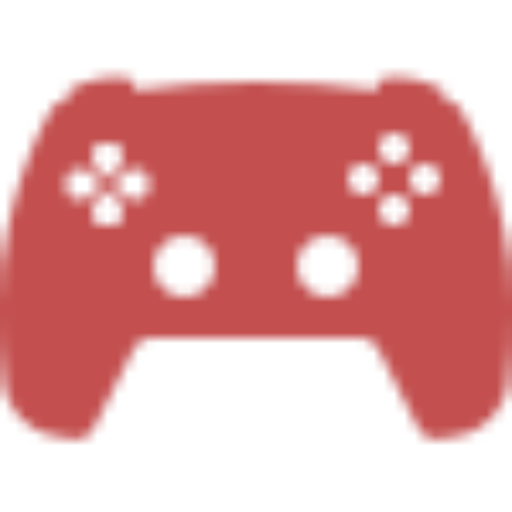
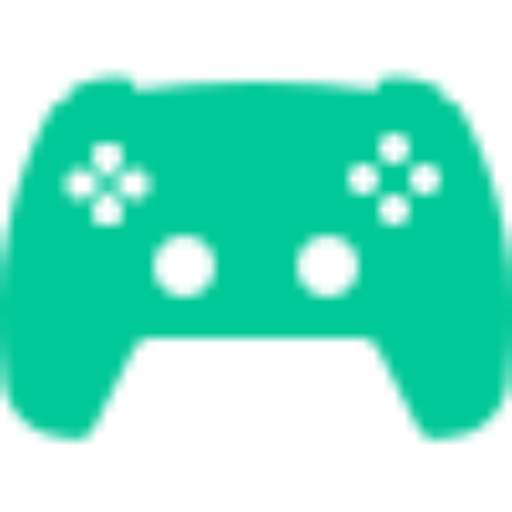
Modified and expanded color palette

diff --git a/src/components/Common/CustomLink.tsx b/src/components/Common/CustomLink.tsx
@@ -6,7 +6,7 @@ interface Props extends LinkProps {
   children: React.ReactNode;
   className?: string;
   underline?: boolean;
-  underlineColor?: 'white' | 'secondary';
+  underlineColor?: 'light' | 'seagreen';
 }
 
 export default function CustomLink({
@@ -14,21 +14,17 @@ export default function CustomLink({
   className,
   href,
   underline,
-  underlineColor = 'white',
+  underlineColor = 'light',
   ...rest
 }: Props) {
   const hrefStr = href.toString();
   const isInternalLink = hrefStr.startsWith('/') || hrefStr.startsWith('#');
-  const commonLinkStyles = cn(
-    'transition duration-300 hover:text-white',
-    className
-  );
 
   if (isInternalLink) {
     return (
       <Link
         href={href}
-        className={cn('text-slate-200', commonLinkStyles, {
+        className={cn('text-smoky-100', className, {
           'group max-w-fit': underline,
         })}
         {...rest}
@@ -38,7 +34,7 @@ export default function CustomLink({
           <span
             className={cn(
               'block h-0.5 max-w-0 transition-all duration-300 group-hover:max-w-full',
-              underlineColor === 'white' ? 'bg-white' : 'bg-secondary'
+              underlineColor === 'light' ? 'bg-light' : 'bg-seagreen'
             )}
           ></span>
         )}
@@ -51,7 +47,7 @@ export default function CustomLink({
       target='_blank'
       rel='noopener noreferrer'
       href={hrefStr}
-      className={commonLinkStyles}
+      className={className}
       {...rest}
     >
       {children}

diff --git a/src/components/Layout/Footer.tsx b/src/components/Layout/Footer.tsx
@@ -4,18 +4,22 @@ import CustomLink from '../Common/CustomLink';
 
 export default function Footer() {
   return (
-    <footer className='mx-auto max-w-6xl text-slate-300'>
-      <hr className='border-slate-300' />
+    <footer className='mx-auto max-w-6xl text-smoky-200'>
+      <hr className='border-smoky-200' />
       <div className='px-4 pb-10 pt-8 sm:px-6 md:flex md:items-center md:justify-between lg:px-8'>
         <div className='flex items-center justify-center space-x-6 md:order-2'>
           {socials.map((social) => (
-            <CustomLink key={social.href} href={social.href}>
+            <CustomLink
+              key={social.href}
+              href={social.href}
+              className='hover:animate-jelly'
+            >
               <span className='sr-only'>{social.name}</span>
-              <social.icon className='h-8 w-8' aria-hidden='true' />
+              <social.icon className='h-9 w-9' aria-hidden='true' />
             </CustomLink>
           ))}
         </div>
-        <p className='mt-8 text-center text-base uppercase md:order-1 md:mt-0 lg:text-left'>
+        <p className='mt-8 text-center text-base uppercase md:order-1 md:mt-0 md:text-lg lg:text-left'>
           Jakub Pawlak &copy; 2023
         </p>
       </div>

diff --git a/tailwind.config.js b/tailwind.config.js
@@ -4,8 +4,50 @@ export const content = ['./src/**/*.{js,ts,jsx,tsx}'];
 export const theme = {
   extend: {
     colors: {
-      primary: '#303030',
-      secondary: '#C34F4F',
+      dark: '#5E5E5E',
+      light: '#F2ECFF',
+      smoky: {
+        50: '#f6f6f6',
+        100: '#e7e7e7',
+        200: '#d1d1d1',
+        300: '#b0b0b0',
+        400: '#888888',
+        500: '#6d6d6d',
+        600: '#5d5d5d',
+        700: '#4f4f4f',
+        800: '#454545',
+        900: '#3d3d3d',
+        DEFAULT: '#303030',
+      },
+      seagreen: {
+        50: '#eafff7',
+        100: '#cdfee9',
+        200: '#a0fad8',
+        300: '#63f2c5',
+        400: '#25e2ac',
+        DEFAULT: '#00c896',
+        500: '#00a47b',
+        600: '#008367',
+        700: '#006752',
+        800: '#005545',
+        900: '#003028',
+      },
+    },
+    keyframes: {
+      jelly: {
+        '0%,100%': { transform: 'scale(1, 1)' },
+        '25%': { transform: 'scale(0.95, 1.05)' },
+        '50%': { transform: 'scale(1.05, 0.95)' },
+        '75%': { transform: 'scale(0.95, 1.05)' },
+      },
+    },
+    animation: {
+      jelly: 'jelly 0.5s',
+    },
+    animationDuration: {
+      1500: '1500ms',
+      2000: '2000ms',
+      2500: '2500ms',
     },
   },
 };

diff --git a/src/components/Post/PostPreview.tsx b/src/components/Post/PostPreview.tsx
@@ -19,10 +19,10 @@ export default function PostPreview({
   const creationDate = new Date(date);
 
   return (
-    <li className='max-w-sm overflow-hidden rounded-b-md bg-white shadow-md md:max-w-none'>
+    <li className='max-w-sm overflow-hidden rounded-b-md bg-dark shadow-md md:max-w-none'>
       <CustomLink href={`/posty/${slug}`}>
         <CustomImage src={thumbnail} alt={title} width={414} height={233} />
-        <div className='p-4 text-primary'>
+        <div className='p-4 text-light'>
           <div className='mb-3 flex items-start justify-between'>
             <div>
               <h3 className='text-xl font-semibold leading-6'>{title}</h3>
@@ -35,11 +35,11 @@ export default function PostPreview({
                 {formatDate(creationDate)}
               </time>
             </div>
-            <span className='rounded-md bg-secondary px-2 py-1 text-sm uppercase text-white md:rounded-lg'>
+            <span className='rounded-md bg-seagreen-800 px-2 py-1 text-sm uppercase text-light md:rounded-lg'>
               {category}
             </span>
           </div>
-          <p className='text-primary'>{excerpt}</p>
+          <p className='text-light'>{excerpt}</p>
         </div>
       </CustomLink>
     </li>

diff --git a/src/components/Post/PostsSearchBar.tsx b/src/components/Post/PostsSearchBar.tsx
@@ -17,13 +17,13 @@ export default function PostsSearchBar({ posts, onSearch }: Props) {
     <label className='relative mt-5 block w-full sm:max-w-[365px]'>
       <span className='sr-only'>Wyszukaj</span>
       <span className='absolute inset-y-0 left-0 flex items-center pl-2'>
-        <BiSearch className='h-5 w-5 fill-slate-500' />
+        <BiSearch className='h-5 w-5 fill-smoky-600' />
       </span>
       <input
-        className='block w-full rounded-md bg-gray-100 py-2 pl-9 pr-3 text-primary shadow-sm placeholder:italic placeholder:text-slate-400 focus:border-sky-500 focus:outline-none focus:ring-1 focus:ring-sky-500 sm:text-sm'
+        className='block w-full rounded-md bg-smoky-200 py-2 pl-9 pr-3 text-smoky-900 shadow-sm placeholder:italic placeholder:text-smoky-500 focus:border-seagreen-100 focus:outline-none focus:ring-1 focus:ring-seagreen-300 sm:text-sm'
         type='search'
         name='search'
-        placeholder='Wyszukaj post'
+        placeholder='Wyszukaj post...'
         value={value}
         autoComplete='off'
         spellCheck={false}

diff --git a/src/components/ContactForm/FormField.tsx b/src/components/ContactForm/FormField.tsx
@@ -19,10 +19,10 @@ export default function FormField({
 }: Props) {
   const [field, meta] = useField(name);
   const className = cn(
-    'px-3 py-2 shadow-sm border placeholder:text-slate-400 placeholder:italic focus:outline-none block w-full rounded-md sm:text-sm',
+    'px-3 py-2 shadow-sm border placeholder:text-smoky-600 placeholder:italic focus:outline-none block w-full rounded-md sm:text-sm',
     meta.touched && !!meta.error
       ? 'text-[#D41976] border-[#D41976] bg-[#F4C6DD] placeholder:text-pink-400'
-      : 'text-primary border-slate-300 bg-gray-100 focus:bg-white focus:border-sky-500 focus:ring-sky-500 focus:ring-1'
+      : 'text-seagreen-700 border-smoky-400 bg-smoky-50 focus:bg-light focus:border-seagreen-100 focus:ring-seagreen-300 focus:ring-1'
   );
 
   return (

diff --git a/src/app/(site)/not-found.tsx b/src/app/(site)/not-found.tsx
@@ -9,7 +9,7 @@ export default function NotFound() {
   return (
     <section className='container mx-auto my-8 flex h-full flex-col items-center justify-center p-16'>
       <div className='max-w-md text-center'>
-        <h2 className='text-9xl font-extrabold text-secondary'>
+        <h2 className='text-9xl font-extrabold text-seagreen'>
           <span className='sr-only'>Error</span>404
         </h2>
         <p className='my-8 text-2xl font-semibold md:text-3xl'>
@@ -17,7 +17,7 @@ export default function NotFound() {
         </p>
         <Link
           href='/'
-          className='rounded-lg bg-secondary px-8 py-3 text-lg font-semibold'
+          className='rounded-lg bg-seagreen px-8 py-3 text-lg font-semibold'
         >
           Strona główna
         </Link>

diff --git a/src/components/ContactForm/index.tsx b/src/components/ContactForm/index.tsx
@@ -65,7 +65,7 @@ export default function ContactForm() {
         <div className='text-center'>
           <button
             type='submit'
-            className='rounded bg-gradient-to-r from-secondary to-red-800 px-4 py-2 font-bold shadow transition-all duration-300 hover:scale-95 hover:opacity-80 disabled:opacity-50'
+            className='rounded bg-gradient-to-r from-seagreen to-seagreen-700 px-4 py-2 font-bold shadow transition-all duration-300 hover:scale-95 hover:opacity-80 disabled:opacity-50'
             disabled={isPending}
           >
             {isPending ? 'Wysyłanie...' : 'Wyślij'}

diff --git a/src/components/Category/CategoryList.tsx b/src/components/Category/CategoryList.tsx
@@ -8,10 +8,11 @@ export default function CategoryList() {
   categories.unshift('wszystkie');
 
   return (
-    <ul className='text-md flex w-full flex-wrap justify-around gap-x-3 bg-secondary bg-opacity-50 px-6 py-3 md:text-lg'>
+    <ul className='flex w-full flex-wrap justify-around gap-4 bg-seagreen-700 px-6 py-3'>
       {categories.map((category, index) => (
         <li key={index}>
           <CustomLink
+            className='text-base text-light md:text-lg md:font-medium'
             href={
               category === 'wszystkie'
                 ? '/posty'

diff --git a/src/app/(site)/posty/[slug]/page.tsx b/src/app/(site)/posty/[slug]/page.tsx
@@ -44,7 +44,7 @@ export default async function PostPage({ params: { slug } }: Props) {
   const contentHtml = await markdownToHtml(content);
 
   return (
-    <article className='prose prose-invert mx-auto max-w-3xl md:prose-lg lg:prose-xl prose-headings:text-secondary prose-h4:italic prose-h4:text-white prose-p:text-justify'>
+    <article className='prose prose-invert mx-auto max-w-3xl md:prose-lg lg:prose-xl prose-headings:text-seagreen prose-h4:italic prose-h4:text-light prose-p:text-justify'>
       <PostHeader
         date={date}
         excerpt={excerpt}

diff --git a/src/components/Layout/Logo.tsx b/src/components/Layout/Logo.tsx
@@ -8,9 +8,10 @@ export default function Logo() {
       href='/'
       className='flex flex-shrink-0 flex-row justify-center py-5 text-4xl font-bold md:text-5xl'
     >
-      <GiConsoleController size={50} className='mr-2' />
+      <span className='sr-only'>Strona Główna</span>
+      <GiConsoleController size={50} className='mr-2' aria-hidden='true' />
       <h1 className='hidden sm:block'>
-        <span className='text-secondary'>KOCHAM </span>
+        <span className='text-seagreen'>KOCHAM </span>
         GRY
       </h1>
     </CustomLink>

diff --git a/src/app/(site)/layout.tsx b/src/app/(site)/layout.tsx
@@ -101,11 +101,6 @@ export const metadata: Metadata = {
     ],
   },
   manifest: '/manifest.json',
-  viewport: {
-    width: 'device-width',
-    initialScale: 1,
-    maximumScale: 1,
-  },
 };
 
 export default function RootLayout({
@@ -117,7 +112,7 @@ export default function RootLayout({
     <html lang='pl'>
       <body
         className={cn(
-          'min-h-screen overflow-x-hidden bg-primary text-white',
+          'min-h-screen overflow-x-hidden bg-smoky text-light',
           roboto.className
         )}
       >
